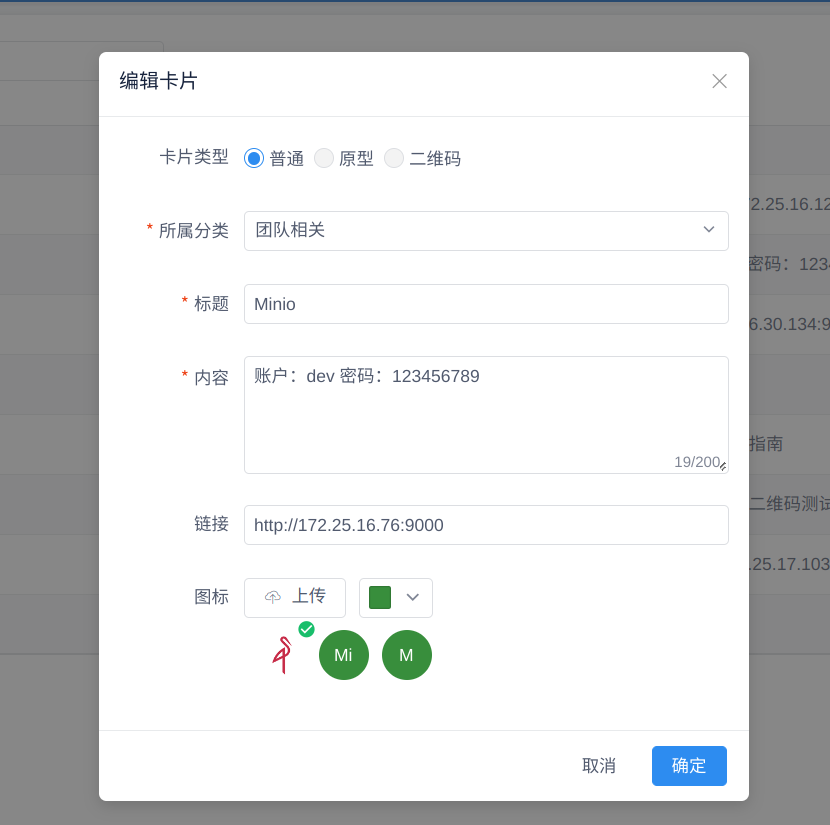
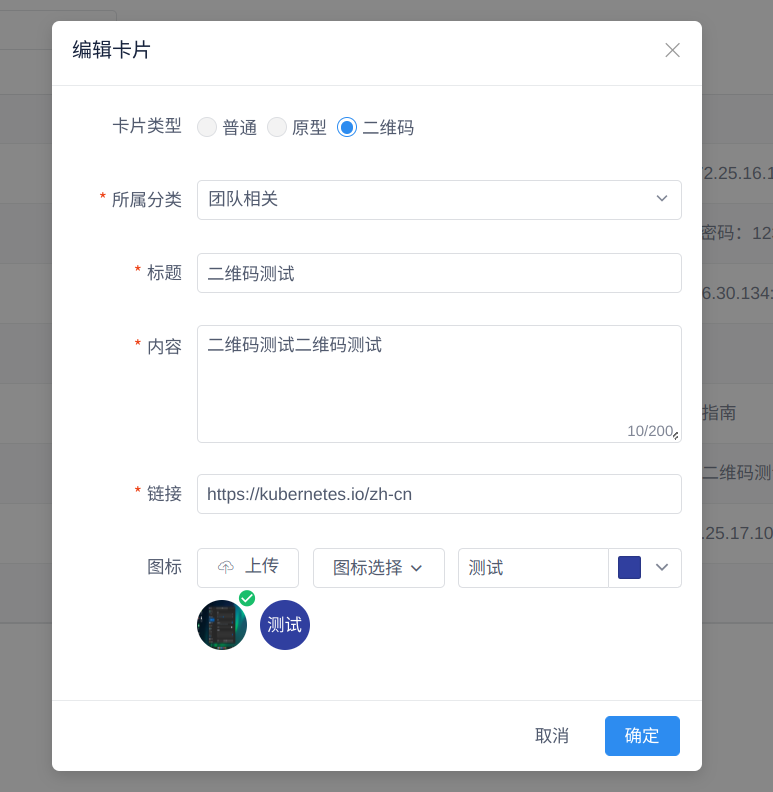
文本图片单独输入，不再截取标题

diff --git a/src/main/resources/templates/modal/card-modal.html b/src/main/resources/templates/modal/card-modal.html
@@ -1,6 +1,37 @@
 <!DOCTYPE html>
 <html lang="zh-CN" xmlns:th="http://www.thymeleaf.org">
 <div th:fragment="card-modal">
+    <style type="text/css">
+        .form-icon-loading {
+            margin-top: -24px;
+            margin-bottom: 0;
+        }
+        .form-icon-select-panel {
+            display: flex;
+            justify-content:space-between;
+            align-items:center;
+        }
+        .form-icon-select-show .ivu-badge{
+            margin-top: 10px;
+            margin-right: 10px;
+        }
+        .form-icon-text-panel {
+            display: flex;
+        }
+        .form-icon-text-input {
+            width: 120px;
+            bottom: -1px;
+        }
+        .form-icon-text-input input{
+            border-top-right-radius: 0;
+            border-bottom-right-radius: 0;
+            border-right: none;
+        }
+        .form-icon-text-color-pick .ivu-color-picker-input{
+            border-top-left-radius: 0;
+            border-bottom-left-radius: 0;
+        }
+    </style>
     <div th:replace="components/card-icon-select::card-icon-select"></div>
     <template id="card-modal">
         <Modal v-model="show"
@@ -24,7 +55,7 @@
                     </i-select>
                 </form-item>
                 <form-item label="标题" prop="title">
-                    <i-input v-model.trim="editItem.title" placeholder="标题" @on-blur="getTextIcon"></i-input>
+                    <i-input v-model.trim="editItem.title" placeholder="标题"></i-input>
                 </form-item>
                 <form-item label="内容" prop="content">
                     <i-input type="textarea"
@@ -48,29 +79,33 @@
                         <i-button icon="ios-cloud-upload-outline">上传</i-button>
                     </Upload>
                 </form-item>
-                <form-item v-if="showFaviconLoading" style="margin-top: -24px;margin-bottom: 0;">
+                <form-item v-if="showFaviconLoading" class="form-icon-loading">
                     <i-button loading type="text">正在尝试获取该地址的图标</i-button>
                 </form-item>
                 <form-item label="图标" prop="icon">
                     <div>
-                        <div style="overflow: hidden;">
+                        <div class="form-icon-select-panel">
                             <Upload ref="uploadCtl" action="/api/v1/upload/images"
-                                    style="float: left;"
                                     :show-upload-list="false"
                                     accept="image/x-icon,image/png,image/jpeg,image/jpg,image/gif,image/bmp"
                                     :on-success="uploadSuccess">
                                 <i-button icon="ios-cloud-upload-outline">上传</i-button>
                             </Upload>
-                            <card-icon-select style="float: left; margin-left: 10px;"
-                                              @select="iconSelect"></card-icon-select>
-                            <color-picker @on-change="colorChange"
-                                          style="float: left;
-                                          margin-left: 10px;"
-                                          v-model="color"
-                                          recommend></color-picker>
+                            <card-icon-select @select="iconSelect"></card-icon-select>
+                            <div class="form-icon-text-panel">
+                                <i-input class="form-icon-text-input"
+                                         v-model.trim="textIcon.text"
+                                         @on-change="setTextIcon"
+                                         maxlength="8"
+                                         placeholder="图标文字"></i-input>
+                                <color-picker @on-change="textIconColorChange"
+                                              class="form-icon-text-color-pick"
+                                              v-model="textIcon.color"
+                                              recommend></color-picker>
+                            </div>
                         </div>
-                        <div style="margin-top: 10px">
-                            <Badge style="margin-left: 10px;" v-for="item in icons" :key="item"
+                        <div class="form-icon-select-show">
+                            <Badge v-for="item in icons" :key="item"
                                    @click.native="selectIcons(item)">
                                 <Avatar size="large" v-if="item.src" :src="item.src"></Avatar>
                                 <Avatar size="large" v-else :style="{background: item.color}">{{item.text}}</Avatar>
@@ -95,7 +130,10 @@
                     loading: true,
                     showFaviconLoading: false,
                     iconErrTip: false,
-                    color: '',
+                    textIcon: {
+                        color: '',
+                        text: ''
+                    },
                     types: [
                         {
                             id: 'default',
@@ -156,10 +194,17 @@
                     this.show = true;
                     this.edit = Boolean(item);
                     if (this.edit) {
-                        this.editItem = {...item};
+                        this.editItem = JSON.parse(JSON.stringify(item));
                         this.editItem.icon.checked = true;
                         this.icons.push(this.editItem.icon);
-                        this.getTextIcon();
+                        if(this.editItem.icon.text){
+                            this.textIcon = {...this.editItem.icon};
+                        } else {
+                            this.textIcon = {
+                                color: colorUtils.getColor(),
+                                text: ''
+                            };
+                        }
                         this.zipFileList = [item.zip];
                     } else {
                         this.editItem = {
@@ -170,6 +215,10 @@
                             title: '',
                             content: '',
                             url: ''
+                        };
+                        this.textIcon = {
+                            color: colorUtils.getColor(),
+                            text: ''
                         };
                         this.zipFileList = [];
                     }
@@ -184,11 +233,10 @@
                             this.$notice.err(err.response.data);
                         });
                 },
-                colorChange() {
-                    for (const icon of this.icons) {
-                        if (icon.color) {
-                            icon.color = this.color;
-                        }
+                textIconColorChange() {
+                    let curIcon = this.icons.find(icon => Boolean(icon.color));
+                    if(curIcon) {
+                        curIcon.color = this.textIcon.color;
                     }
                 },
                 uploadSuccess(response) {
@@ -222,25 +270,20 @@
                             this.showFaviconLoading = false;
                         });
                 },
-                getTextIcon() {
-                    if (!this.editItem.title) {
+                setTextIcon() {
+                    if (!this.textIcon.text) {
+                        this.icons = this.icons.filter(icon => !Boolean(icon.text));
                         return;
                     }
-                    const color = colorUtils.getColor();
-                    this.icons.push({
-                        text: this.editItem.title.substring(0, 2),
-                        color: color,
-                        checked: false
-                    });
-                    this.icons.push({
-                        text: this.editItem.title.substring(0, 1),
-                        color: color,
-                        checked: false
-                    });
-                    if (!this.color) {
-                        const firstColor = this.icons.find(icon => Boolean(icon.color));
-                        this.color = firstColor ? firstColor.color : '';
+                    let curIcon = this.icons.find(icon => Boolean(icon.text));
+                    if(curIcon) {
+                        curIcon.text = this.textIcon.text;
+                        return;
                     }
+                    this.icons.push({
+                        ...this.textIcon,
+                        checked: false
+                    });
                 },
                 selectIcons(item) {
                     this.icons.forEach(it => it.checked = false);

diff --git a/src/main/resources/static/assets/js/index.js b/src/main/resources/static/assets/js/index.js
@@ -64,7 +64,7 @@ new Vue({
             this.choosedMenu(id);
         },
         cardClickHandler(item) {
-            if (item.url && item.type !== 'qrcode') {
+            if (item.url) {
                 window.open(item.url);
             }
         }

diff --git a/README.md b/README.md
@@ -13,14 +13,14 @@
 ## 功能说明
 
 - 网址导航前端展示+搜索功能，[首页图](#首页图)。
-- 网址导航后台基本功能：分类和卡片的增删改查，[后台-分类管理图](#后台-分类管理图)  [后台-卡片管理图](#后台-卡片管理图)。
+- 网址导航后台基本功能：分类和卡片的增删改查，[后台-分类管理图](#后台-分类管理图)  [后台-卡片列表图](#后台-卡片列表图)  [后台-卡片编辑图](#后台-卡片编辑图)。
 - 分类和卡片支持拖拽调整顺序，不用专门维护排序字段。
 - 支持添加秘密卡片分类，该分类下的卡片需要登录才能看见，不开启登录功能则默认不显示。
 - 暂时不需要的分类支持移除功能，移除后分类列表页面不可见，可从历史分类中还原回来，[后台-历史分类图](#后台-历史分类图)。
 - 卡片图标支持四种方式
-  - 根据截取填写的【标题】文字的前一个和前两个字生成，并可以为其选择背景色。
+  - 文本图标，输入少量文字作为图标，并可以为其选择背景色。 [后台-卡片编辑图](#后台-卡片编辑图)
   - 根据填写的链接自动获取该链接的获取`favicon.ico`图标。
-  - 用户可以手动上传。
+  - 手动上传图片作为图标。
   - 可配置默认常用的一些图标，直接选择（搜索按图标文件名搜索），[卡片图标选择图](#卡片图标选择图)。
 - 三种卡片类型说明
   - 普通类型：标题，内容，图标为必填，链接非必填，没有链接只是作为少量信息展示，点击卡片不会跳转页面。
@@ -154,9 +154,11 @@ location /ext-resources/modules {
 
 ![](./docs/admin-category-history.png)
 
-#### 后台-卡片管理图
+#### 后台-卡片列表图
 
 ![](./docs/admin-card.png)
+
+#### 后台-卡片编辑图
 
 ![](./docs/admin-card-edit.png)
 
